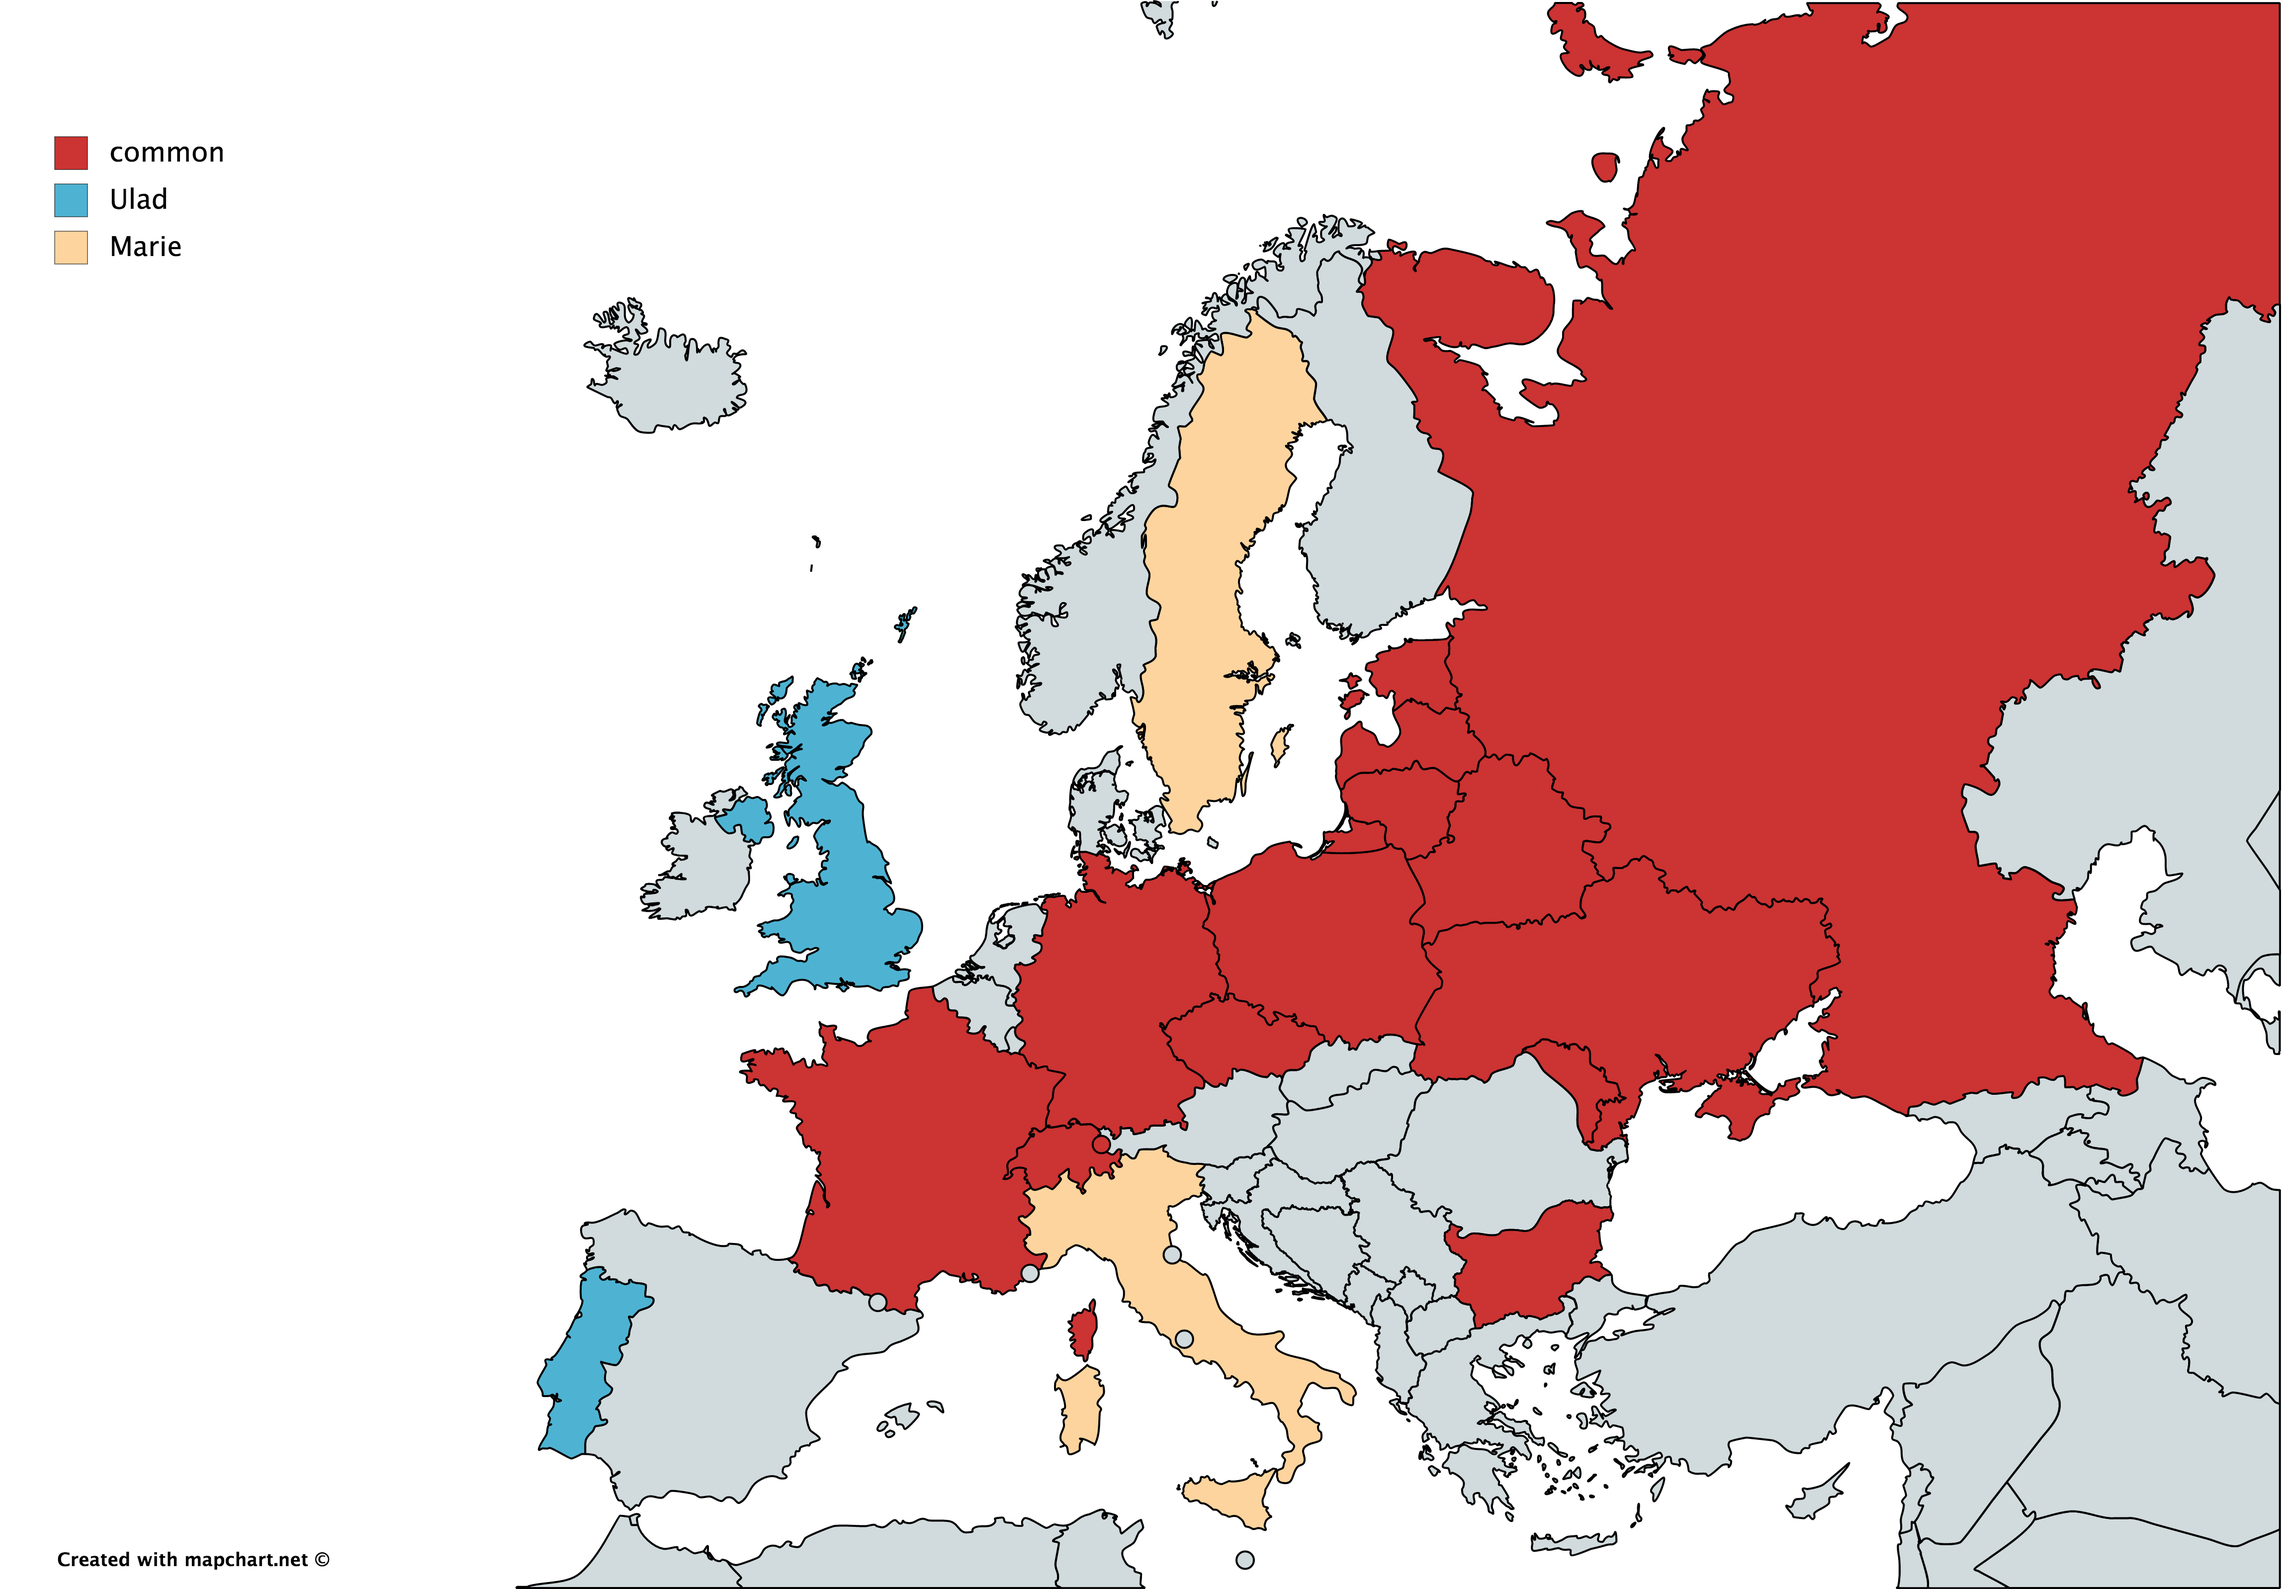
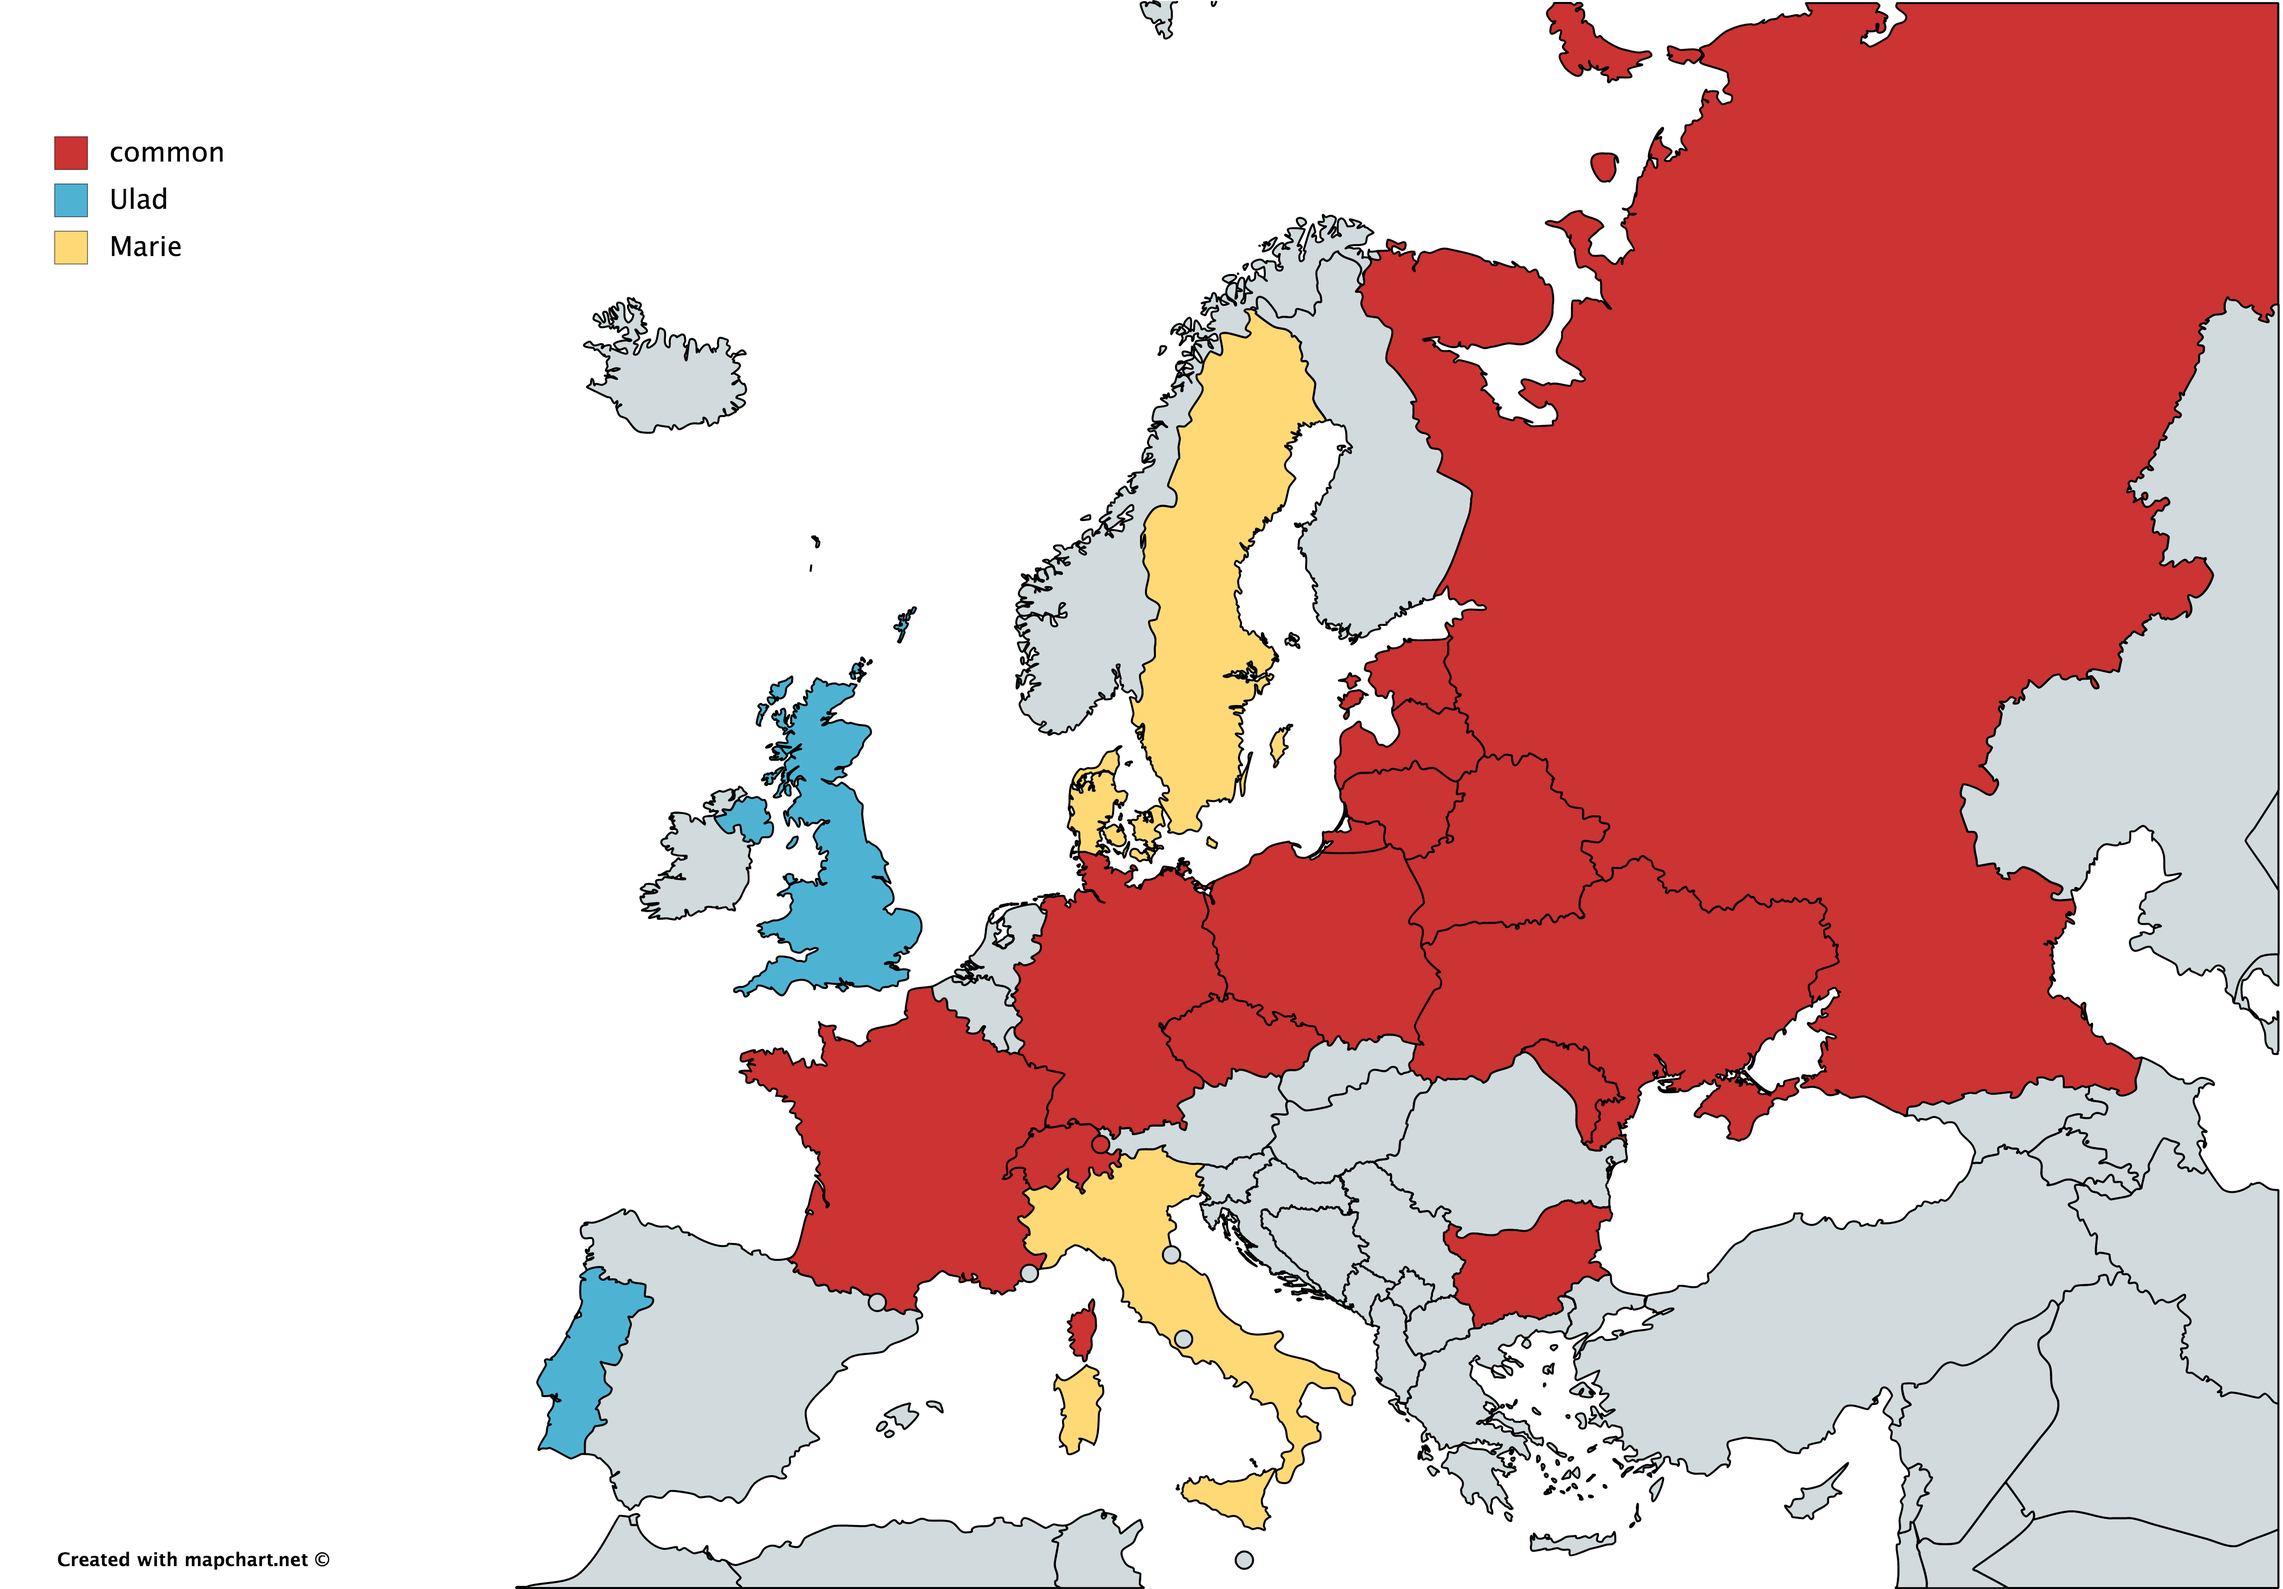
Denmark update

diff --git a/index.html b/index.html
@@ -2,6 +2,7 @@
 <html>
 <head>
 	<title>Marie vs. Ulad</title>
+	<meta charset="utf-8"/>
 	<link rel="shortcut icon" type="image/x-icon" href="favicon.ico" />
 	<link rel="stylesheet" href="styles.css">
 	<link href="https://fonts.googleapis.com/css?family=Pangolin" rel="stylesheet">
@@ -12,9 +13,9 @@
 </div>
 <div class="data">
 	<br>
-	<div class="names">Marie vs. Ulad</div>
+	<div class="names"><u>Marie</u> vs. Ulad</div>
 	<br>
-	<div class="numbers">16 vs. 16</div>
+	<div class="numbers"><u>17</u> vs. 16</div>
 	<br>
 	<div class="countries">
 		Беларусь <img class="flag" src="flags-iso/BY.png" style="vertical-align: middle; width: 30px;"><br>
@@ -36,6 +37,7 @@
 		<div class="countries marie-countries">
 			Італія <img class="flag" src="flags-iso/IT.png"><br>
 			Швецыя <img class="flag" src="flags-iso/SE.png"><br>
+			Данія <img class="flag" src="flags-iso/DK.png"><br>
 		</div>
 		<div class="countries ulad-countries">
 			Велікабрытанія <img class="flag" src="flags-iso/GB.png"><br>
